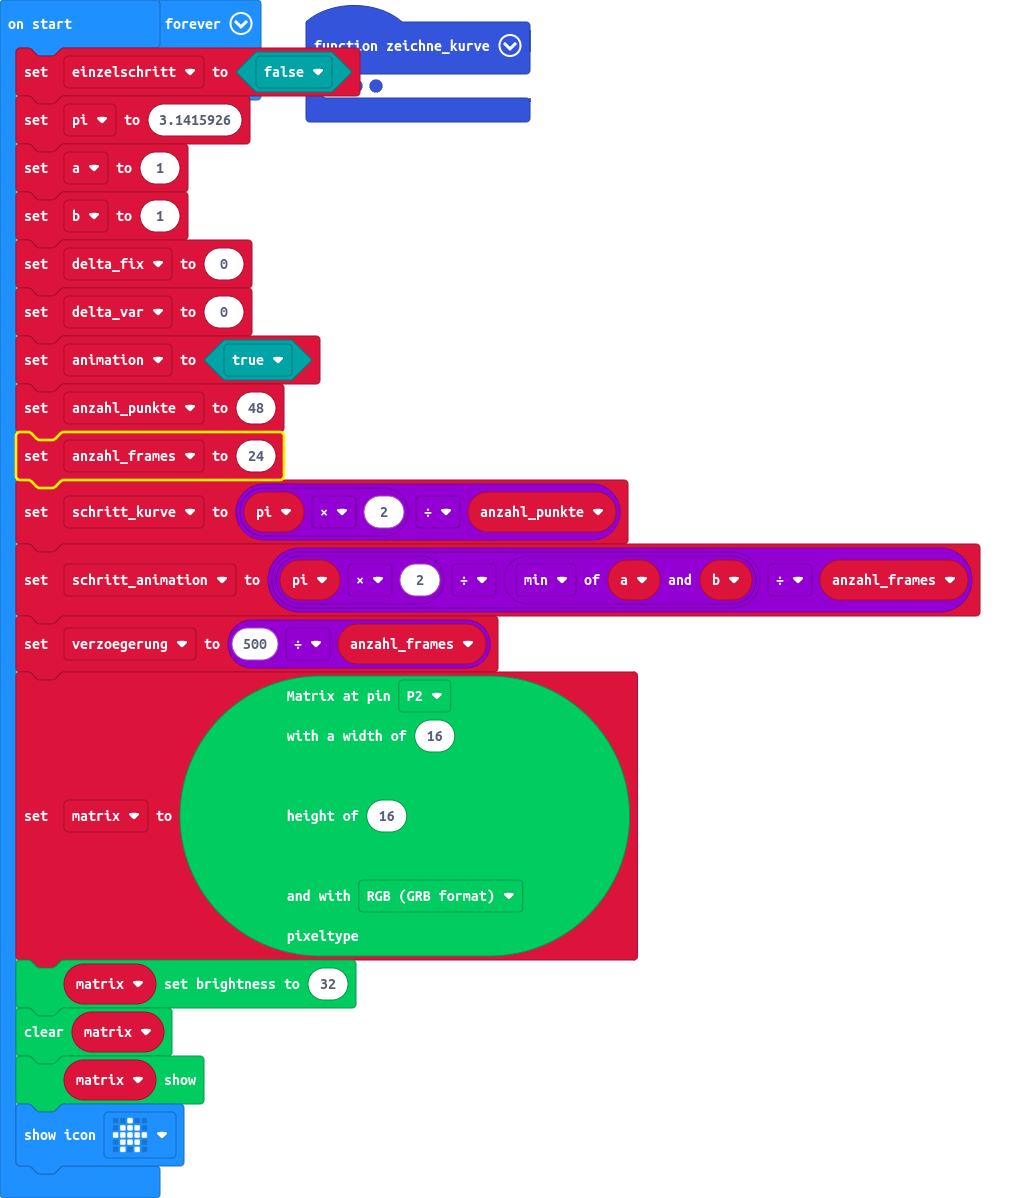
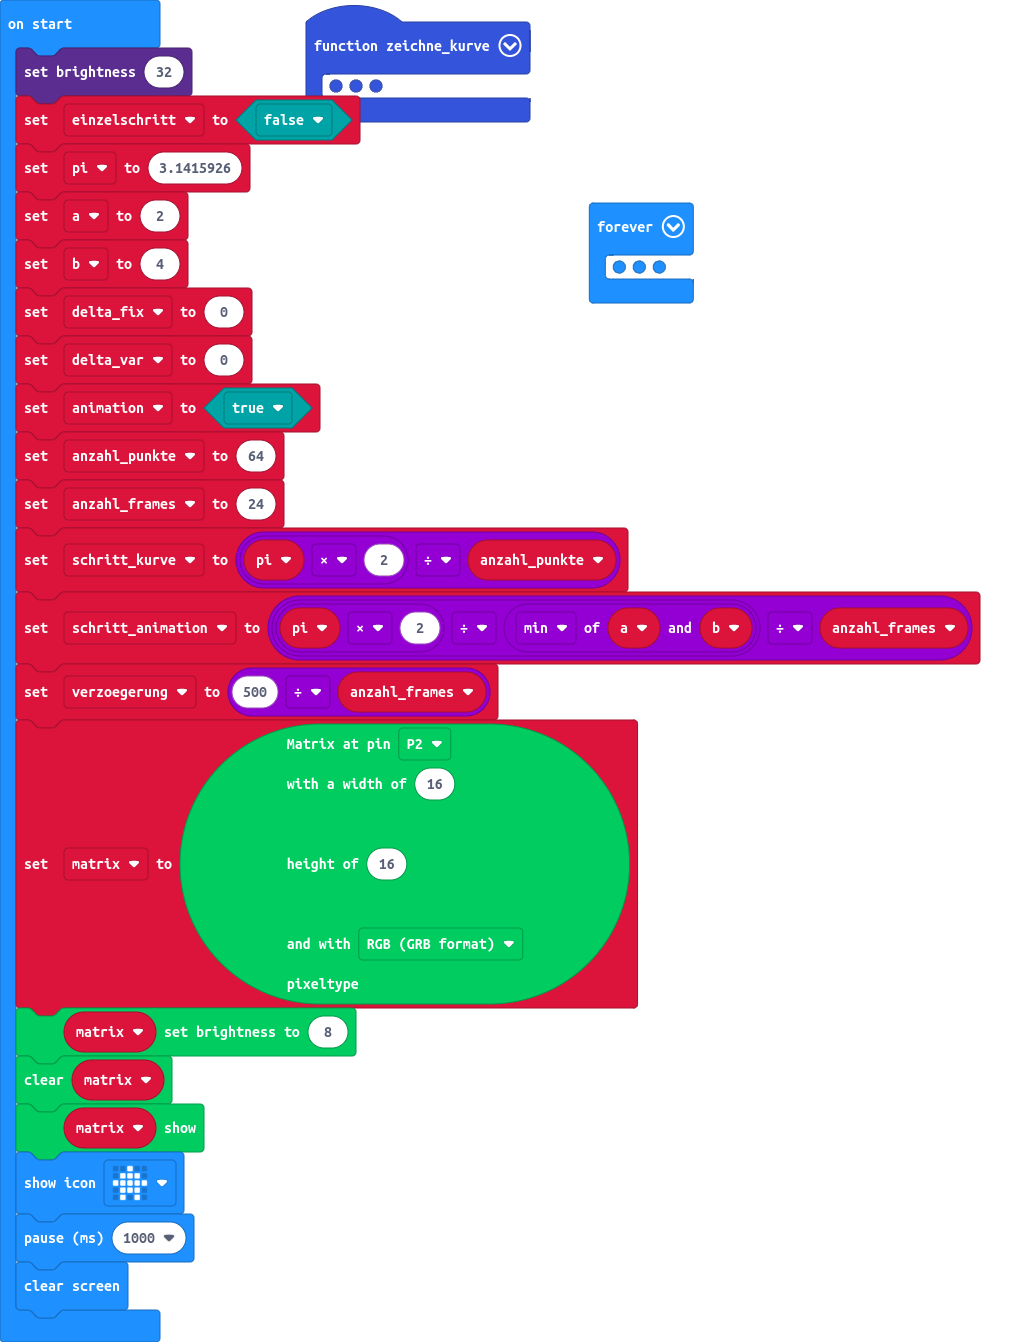
set dim MBit display and turn off  after initialisation

Changed region(s): [[0.0, 0.0, 0.9612, 0.9883], [0.5581, 0.1235, 0.6822, 0.2471]]

diff --git a/main.ts b/main.ts
@@ -20,14 +20,15 @@ let delta_fix = 0
 let b = 0
 let a = 0
 let pi = 0
+led.setBrightness(32)
 let einzelschritt = false
 pi = 3.1415926
-a = 1
-b = 1
+a = 2
+b = 4
 delta_fix = 0
 delta_var = 0
 let animation = true
-let anzahl_punkte = 48
+let anzahl_punkte = 64
 let anzahl_frames = 24
 schritt_kurve = pi * 2 / anzahl_punkte
 let schritt_animation = pi * 2 / Math.min(a, b) / anzahl_frames
@@ -38,10 +39,12 @@ DigitalPin.P2,
 16,
 NeoPixelMode.RGB
 )
-matrix.Brightness(32)
+matrix.Brightness(8)
 matrix.clear()
 matrix.show()
 basic.showIcon(IconNames.House)
+basic.pause(1000)
+basic.clearScreen()
 basic.forever(function () {
     zeichne_kurve()
     matrix.show()
